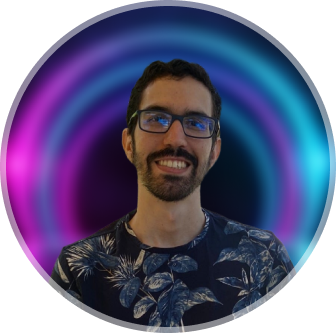
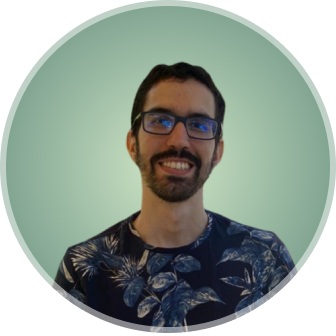
Second Commit

diff --git a/index.html b/index.html
@@ -21,6 +21,11 @@
           alt="Foto de Victor Sorrindo com barba e camisa florida com fundo neon"
         />
         <p>Victor Maximo</p>
+        <p>
+          ⏱ Estudante de Ciência e Tecnologia com ênfase em Engenharia da
+          Computação
+        </p>
+        <p>✅ Tecnólogo em Design Gráfico</p>
       </div>
       <ul>
         <li>

diff --git a/style.css b/style.css
@@ -9,7 +9,7 @@
 }
 
 body {
-  background-image: url(./assets/Background.jpg);
+  background-image: url(./assets/bg2.jpg);
   background-size: cover;
   background-repeat: no-repeat;
   background-attachment: fixed;
